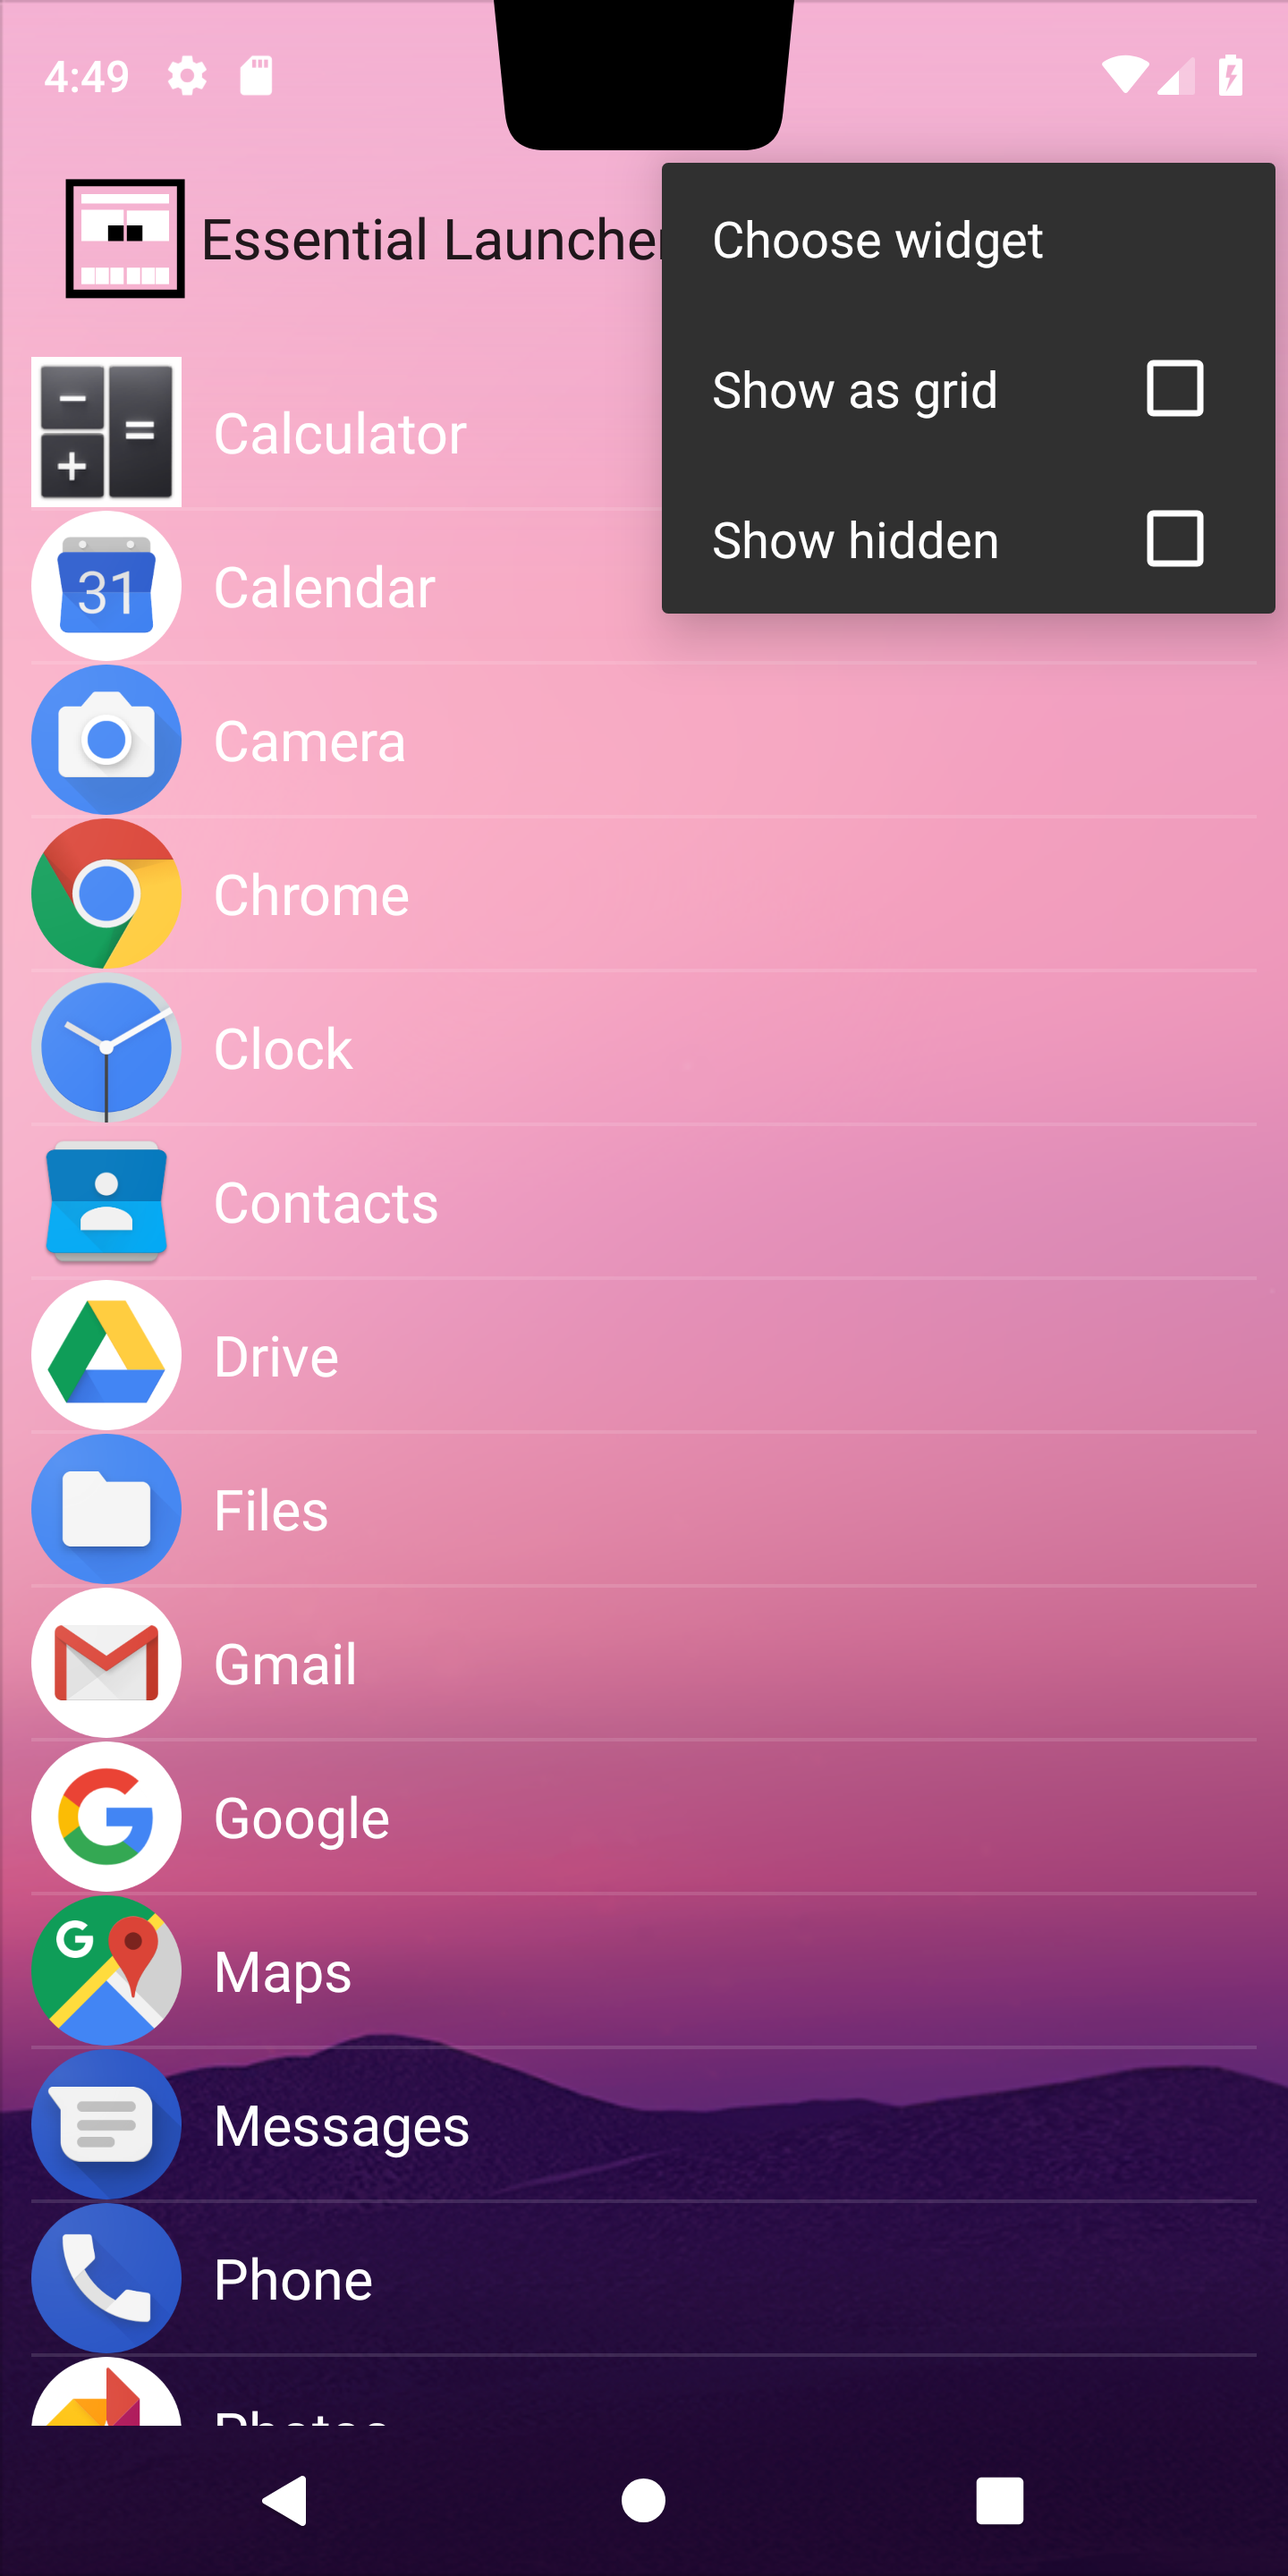
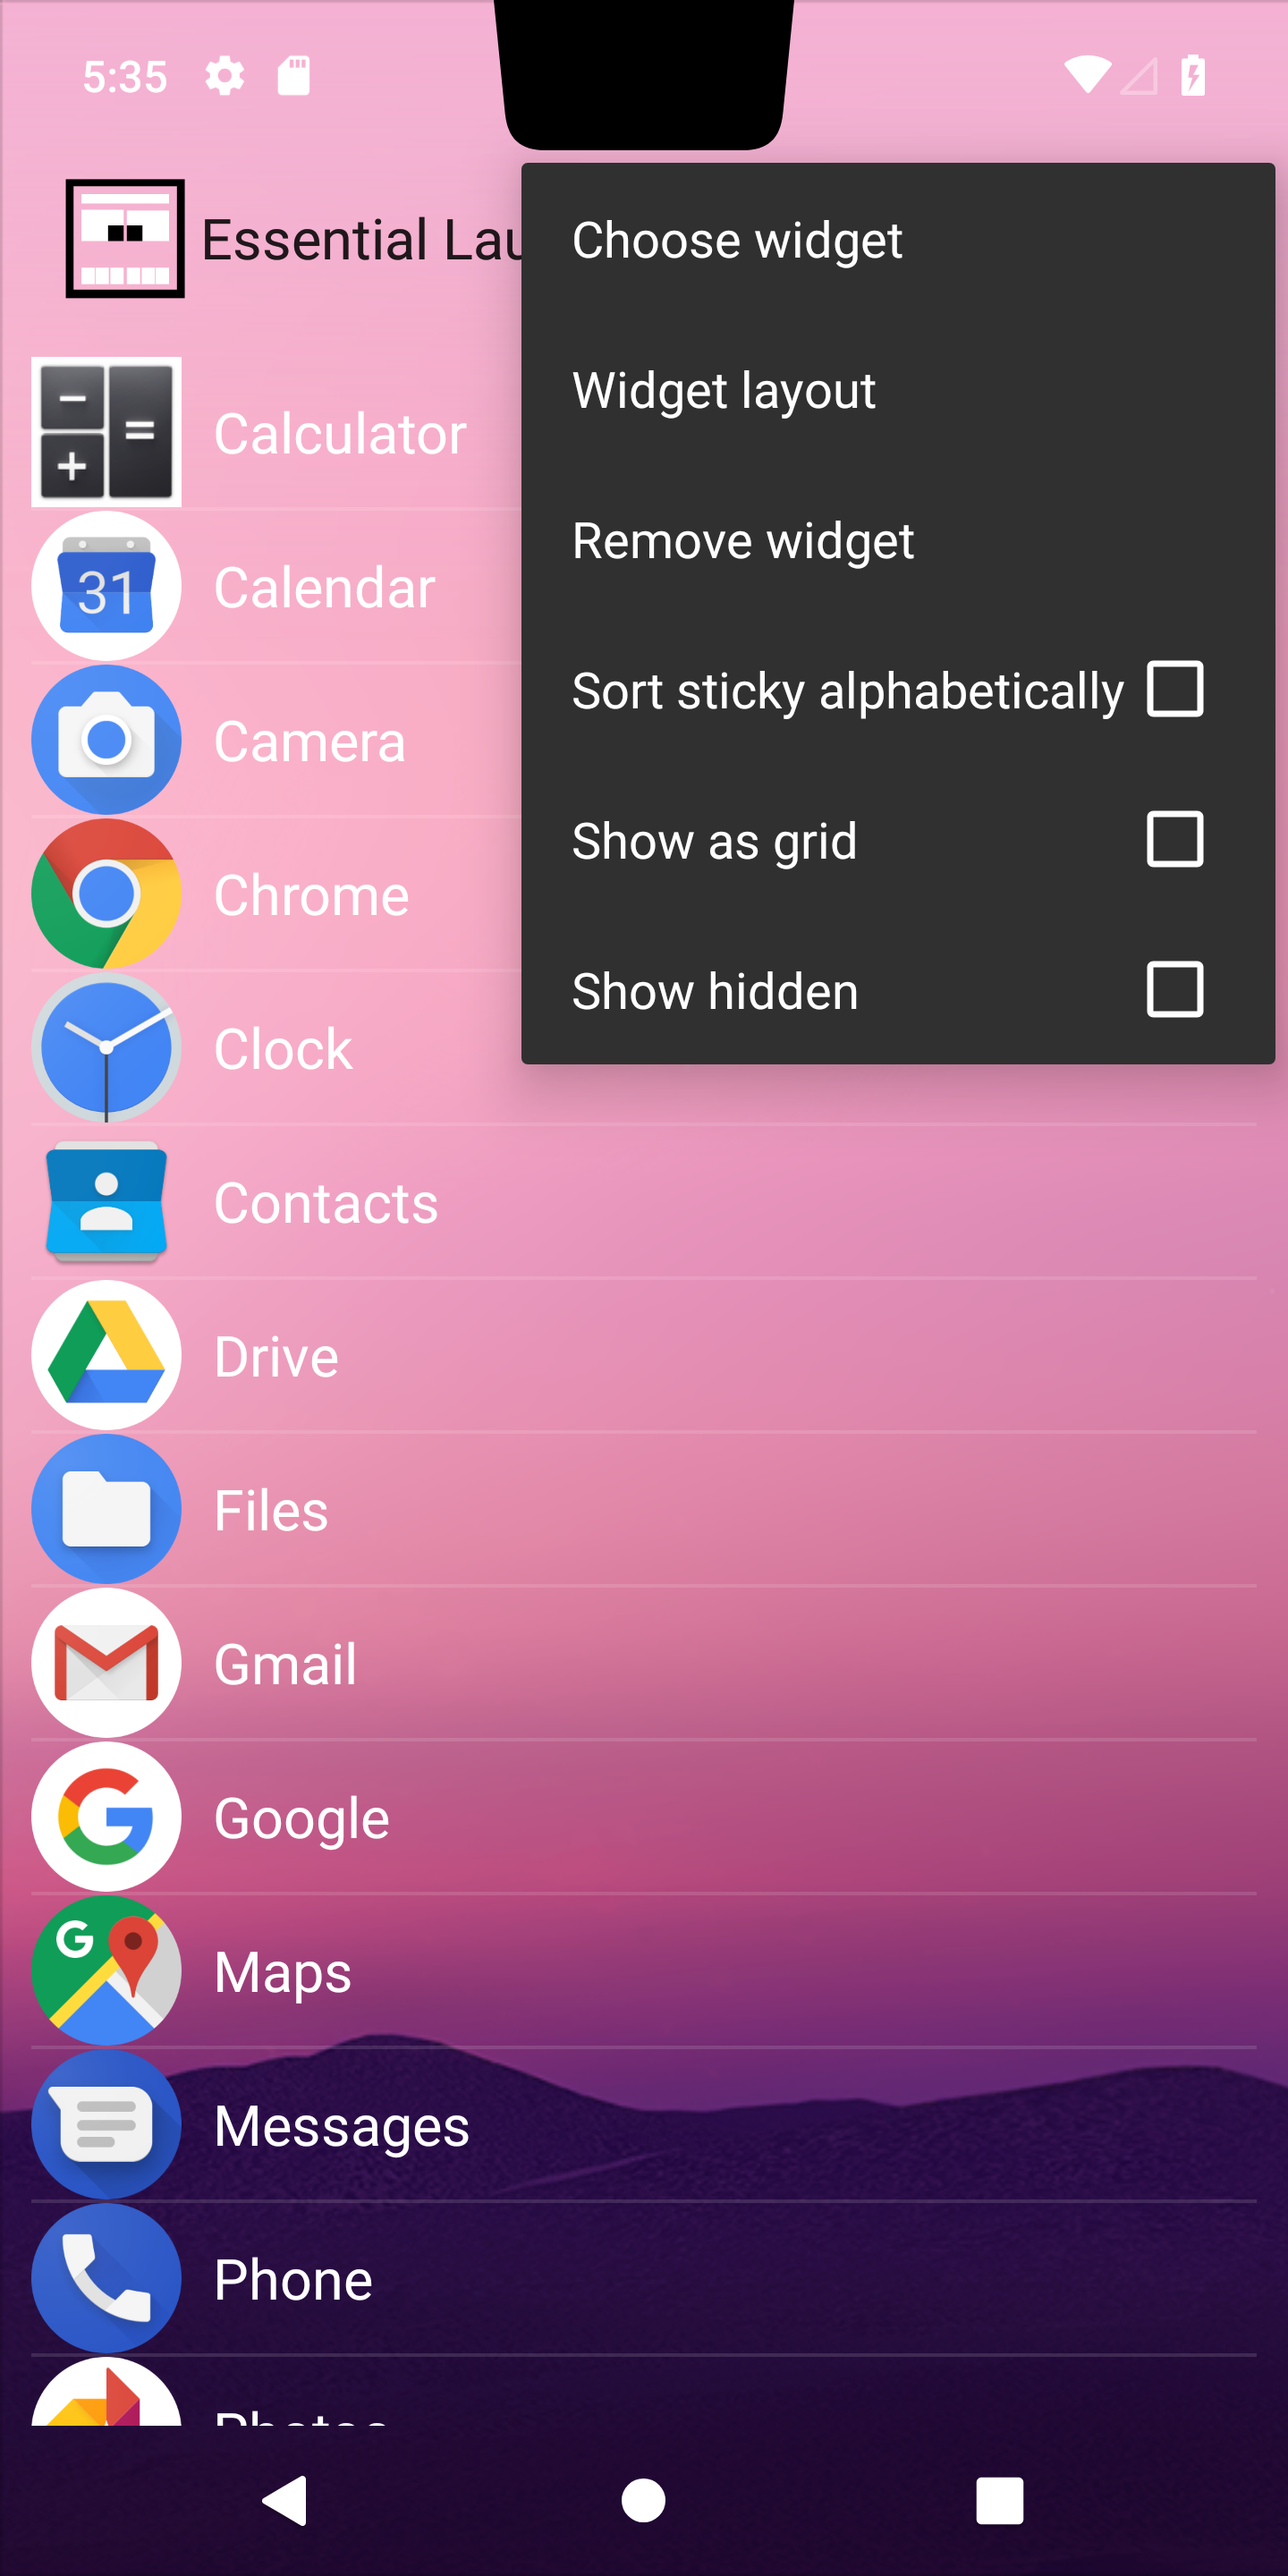
Toggle sorting options for sticky apps (issue #55).

diff --git a/launcher/src/main/java/de/clemensbartz/android/launcher/models/HomeModel.java b/launcher/src/main/java/de/clemensbartz/android/launcher/models/HomeModel.java
@@ -132,6 +132,8 @@ public final class HomeModel {
     private static final String KEY_APPWIDGET_LAYOUT = "appWidgetLayout";
     /** Key for choosing which layout to display. */
     private static final String KEY_DRAWER_LAYOUT = "drawerLayout";
+    /** Key for sorting sticky entries. */
+    private static final String KEY_SORT_STICKY_ALPHABETICALLY = "sortStickyAlphabetically";
 
     /** Value for the appWidgetId property. */
     private int appWidgetId = -1;
@@ -139,6 +141,8 @@ public final class HomeModel {
     private int appWidgetLayout = Launcher.WIDGET_LAYOUT_FULL_SCREEN;
     /** Value for the drawerLayout property. */
     private int drawerLayout = 1;
+    /** Value for sortStickyAlphabetically. */
+    private boolean sortStickyAlphabetically = false;
 
     /**
      *
@@ -218,6 +222,7 @@ public final class HomeModel {
         appWidgetId = preferences.getInt(KEY_APPWIDGET_ID, -1);
         appWidgetLayout = preferences.getInt(KEY_APPWIDGET_LAYOUT, Launcher.WIDGET_LAYOUT_FULL_SCREEN);
         drawerLayout = preferences.getInt(KEY_DRAWER_LAYOUT, 1);
+        sortStickyAlphabetically = preferences.getBoolean(KEY_SORT_STICKY_ALPHABETICALLY, false);
     }
 
     /**
@@ -306,7 +311,9 @@ public final class HomeModel {
     public void updateApplications() {
         mostUsedApplications.clear();
 
-        mostUsedApplications.addAll(retrieveApplications(STICKY_WHERE, STICKY_ORDER_BY, NUMBER_OF_APPS));
+        final String stickyOrderByClause = isSortStickyAlphabetically() ? STICKY_ORDER_BY : REGULAR_ORDER_BY;
+
+        mostUsedApplications.addAll(retrieveApplications(STICKY_WHERE, stickyOrderByClause, NUMBER_OF_APPS));
         if (mostUsedApplications.size() < NUMBER_OF_APPS) {
             // Only fetch the remaining apps
             mostUsedApplications.addAll(retrieveApplications(REGULAR_WHERE, REGULAR_ORDER_BY, NUMBER_OF_APPS - mostUsedApplications.size()));
@@ -784,5 +791,22 @@ public final class HomeModel {
     public void setDrawerLayout(final int drawerLayout) {
         preferences.edit().putInt(KEY_DRAWER_LAYOUT, drawerLayout).apply();
         this.drawerLayout = drawerLayout;
+    }
+
+    /**
+     *
+     * @return if stickies are sorted alphabetically
+     */
+    public boolean isSortStickyAlphabetically() {
+        return sortStickyAlphabetically;
+    }
+
+    /**
+     * Set if stickies should be sorted alphabetically
+     * @param sortStickyAlphabetically the new sort sticky alphabetically
+     */
+    public void setSortStickyAlphabetically(final boolean sortStickyAlphabetically) {
+        preferences.edit().putBoolean(KEY_SORT_STICKY_ALPHABETICALLY, sortStickyAlphabetically).apply();
+        this.sortStickyAlphabetically = sortStickyAlphabetically;
     }
 }

diff --git a/launcher/src/main/java/de/clemensbartz/android/launcher/Launcher.java b/launcher/src/main/java/de/clemensbartz/android/launcher/Launcher.java
@@ -458,6 +458,15 @@ public final class Launcher extends Activity {
                 setGridToggle(model.getDrawerLayout() == HomeModel.GRID_ID);
                 switchTo(model.getDrawerLayout());
                 return true;
+            case R.id.abm_sort_sticky_alphabetically:
+                final boolean isStickySortedAlphabetically = model.isSortStickyAlphabetically();
+
+                model.setSortStickyAlphabetically(!isStickySortedAlphabetically);
+                setStickySortedAlphabetically(model.isSortStickyAlphabetically());
+
+                new LoadMostUsedAppsAsyncTask(this, model).execute();
+                switchTo(HOME_ID);
+                return true;
             case R.id.abm_show_hidden:
                 final boolean showHidden = !item.isChecked();
 
@@ -480,6 +489,20 @@ public final class Launcher extends Activity {
 
             if (gridToggleMenuItem != null) {
                 gridToggleMenuItem.setChecked(isGrid);
+            }
+        }
+    }
+
+    /**
+     * Set the new value for the sticky alphabetically sorting option
+     * @param isStickySortedAlphabetically the new values
+     */
+    public void setStickySortedAlphabetically(final boolean isStickySortedAlphabetically) {
+        if (actionBarMenu != null) {
+            final MenuItem stickySortedAlphabeticallyMenuItem = actionBarMenu.findItem(R.id.abm_sort_sticky_alphabetically);
+
+            if (stickySortedAlphabeticallyMenuItem != null) {
+                stickySortedAlphabeticallyMenuItem.setChecked(isStickySortedAlphabetically);
             }
         }
     }

diff --git a/launcher/src/main/java/de/clemensbartz/android/launcher/tasks/LoadModelAsyncTask.java b/launcher/src/main/java/de/clemensbartz/android/launcher/tasks/LoadModelAsyncTask.java
@@ -58,6 +58,7 @@ public final class LoadModelAsyncTask extends AsyncTask<Integer, Integer, LoadMo
             result.selectedWidget = model.getAppWidgetId();
             result.widgetLayout = model.getAppWidgetLayout();
             result.gridLayout = model.getDrawerLayout();
+            result.sortStickyAlphabetically = model.isSortStickyAlphabetically();
 
             return result;
         }
@@ -80,6 +81,9 @@ public final class LoadModelAsyncTask extends AsyncTask<Integer, Integer, LoadMo
 
             // Set grid toggle
             launcher.setGridToggle(result.gridLayout == HomeModel.GRID_ID);
+
+            // Set the sticky sorting option
+            launcher.setStickySortedAlphabetically(result.sortStickyAlphabetically);
         }
     }
 
@@ -91,5 +95,7 @@ public final class LoadModelAsyncTask extends AsyncTask<Integer, Integer, LoadMo
         int widgetLayout;
         /** The grid layout. */
         int gridLayout;
+        /** The sorting of sticky entries. */
+        boolean sortStickyAlphabetically;
     }
 }
